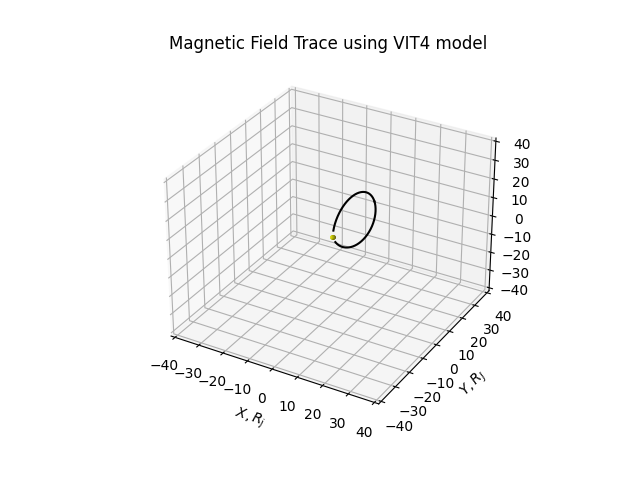
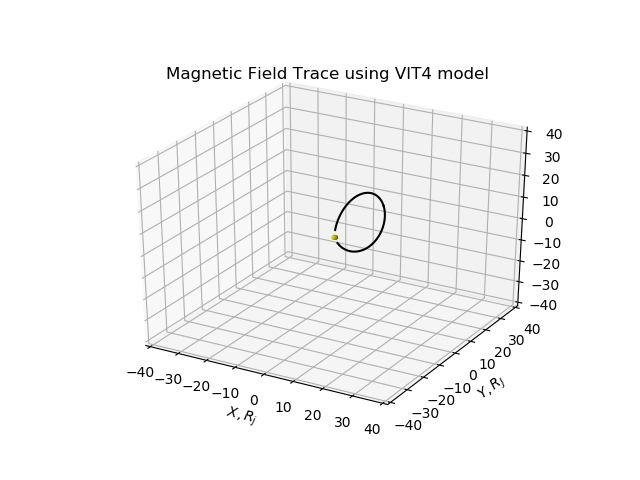
fixed current sheet!

Changed region(s): [[0.2188, 0.0625, 0.875, 0.9062]]

diff --git a/field_and_current_sheet.py b/field_and_current_sheet.py
@@ -19,67 +19,89 @@ import scipy.special
 mpl.rcParams['legend.fontsize'] = 10
 
 Rj = 7.14e7
-class DifferentFieldsTrace:
+class InternalAndCS:
     ''' 
-
-    TO DO - CHECK IF IT WORKS, PLOT THE TRACE, EXTEND TO MORE COMPLICATED MODELS? COULD DO THE 463 MODEL WHICH WILL INCLUDE A BPHI COMPONENT DUE TO SPINNING PLANET 
-
+    Class to plot the combined magnetic field; both internally generated the 
+    field thanks to the current sheet
+    
     '''
 
-    def __init__(self, starting_cordinates, coord_type = "sph", equatorial_strength = 4.17e-7, model = 'VIP4'):
-        self.help = HelpfulFunctions()
+    def __init__(self, starting_cordinates = [30*Rj, np.pi/2, np.pi/2], coord_type = "sph", equatorial_strength = 4.17e-7, model = 'VIP4'):
+        ''' 
+        Plots the magnetic field of jupiter, both internally generated (as defined by input model) and due to the current sheet
+
+        Inputs:
+        starting_cordinates: the initial position from which the magnetic field should be calculated, with Jupiter being the origin
+        coord_type = Whether the starting co-ordinates are spherical (system III) or cartesian
+        equatorial_strength = the equatorial field strength on the surface of Jupiter in T
+        model = the model for the internally generated field. Must be included within Chris's model
+
+
+
+        '''
+        self.help = HelpfulFunctions() #a list of helpful functions that come up repeatedly
+
         models = ['JRM09', 'VIP4', 'VIT4', 'Ulysses 17ev', 'V1-17ev','O6','O4', 'SHA', 'dipole']
+        
         if model not in models:
             print('model not recognised')
             sys.exit()
+        
         else:
             self.model = model
         self.field = field_models()
 
         if not (coord_type == 'sph' or coord_type == 'cart'):
             print('please input co-ordinates in spherical polar or cartesian ("sph" / "cart") \n I will extend to further co-ordinate types later')
-        if coord_type == 'cart':
+        
+        if coord_type == 'cart': #if the coordinates are entired in cartersian they are changed to be in spherical polar
             x,y,z = starting_cordinates[0], starting_cordinates[1], starting_cordinates[2]
             r,theta,phi = self.help.cart_to_sph(x, y, z)
             self.starting_cordinates = [r,theta,phi]
+        
         if coord_type == "sph":
             self.starting_cordinates = starting_cordinates
 
     def trace_lower_hemisphere(self, printing = 'off', starting_cordinates = None):
+        ''' 
+        Trace the lower hemisphere of the magnetic field, starting from the initially defined co ordinated.
+        If print = on, more sanity checks will be printed! 
+        '''
         print('\n Lower Hemisphere')
         if starting_cordinates == None:
             starting_cordinates = self.starting_cordinates
         coordinates = starting_cordinates
         points = []
         i = 0
+        
         while True:
-            i += 1
+            ''' 
+            loops for as long as r is larger than a defined value
+            '''
+            i += 1 #this i is just used to define when to print things! 
             px, py, pz = self.help.sph_to_cart(coordinates[0],coordinates[1],coordinates[2])
             points.append([px,py,pz])
             r = coordinates[0]
-            if r <= 3 * Rj:
+            
+            if r <= 3 * Rj: #defines when the loop is broken out of 
                 break
 
 
-            B_r, B_theta, B_phi = self.field.Internal_Field(r, coordinates[1], coordinates[2], model=self.model)
-            B_current = self.field.CAN_sheet(r, coordinates[1], coordinates[2])
-            B_notcurrent = np.array([B_r, B_theta, B_phi])
-            B_overall = np.add(B_current, B_notcurrent)
-            B_x, B_y, B_z = self.help.Bsph_to_Bcart(B_overall[0], B_overall[1], B_overall[2], coordinates[0], coordinates[1],coordinates[2])    
-            B_x, B_y, B_z = self.help.Bsph_to_Bcart(B_r, B_theta, B_phi, coordinates[0], coordinates[1],coordinates[2])# quad =1)
-            '''
-            if not coordinates[2]  == 0:
-                print('PHI NOT EQUAL 0')
-                sys.exit()
-            '''
+            B_r, B_theta, B_phi = self.field.Internal_Field(r/Rj, coordinates[1], coordinates[2], model=self.model) #calculates the magnetic field due to the internal field in spherical polar that point
+            if i % 1000 == 0:
+                print(coordinates)
+            B_current = self.field.CAN_sheet(r/Rj, coordinates[1], coordinates[2]) #calculates the magnetic field due to the current sheet in spherical polar
+            B_notcurrent = np.array([B_r, B_theta, B_phi]) 
+            B_overall = np.add(B_current, B_notcurrent) #adds up the total magnetic field 
+            B_x, B_y, B_z = self.help.Bsph_to_Bcart(B_overall[0], B_overall[1], B_overall[2], coordinates[0], coordinates[1],coordinates[2]) #converts magnetic field to cartesian
             B = np.array([B_x, B_y, B_z])
-            coordinates = [px,py,pz]
-            Bunit = self.help.unit_vector_cart(B)
-            dr = r * 0.001 #(*Rj) #THIS IS HOW WE UPPDATE THE COORDINATES - IF IT TAKES TOO LONG, THIS NEEDS CHANGING IF IT TAKES TOO LONG OR IS GETTING WEIRD CLOSE TO PLANET
-            change = dr * Bunit
-            coordinates = np.add(coordinates, change)
-            pr, ptheta, pphi = self.help.cart_to_sph(coordinates[0], coordinates[1], coordinates[2])
-            coordinates = [pr,ptheta,pphi]
+            coordinates = [px,py,pz] #change the definition of the coordinates from spherical to cartesian 
+            Bunit = self.help.unit_vector_cart(B) #calculates the unit vector in cartesian direction
+            dr = r * 0.001  #THIS IS HOW WE UPPDATE THE COORDINATES - IF IT TAKES TOO LONG, THIS NEEDS CHANGING IF IT TAKES TOO LONG OR IS GETTING WEIRD CLOSE TO PLANET
+            change = dr * Bunit #the change from this coordinate to the next one is calculated
+            coordinates = np.add(coordinates, change) #add the change to the current co ordinate
+            pr, ptheta, pphi = self.help.cart_to_sph(coordinates[0], coordinates[1], coordinates[2]) #change the coordinatres back in spherical
+            coordinates = [pr,ptheta,pphi] 
 
             
             if printing == 'on':
@@ -88,9 +110,12 @@ class DifferentFieldsTrace:
                     print('r = {}, theta = {}, phi = {}'.format(coordinates[0],coordinates[1],coordinates[2]))
                     print(' x= {}, y = {}, z =  {}'.format(px,py,pz))
                     print('bunit = {}, change = {}, dr = {} \n \n'.format(Bunit, change, dr))
-            
-            if i % 1000 == 0:
+ 
+            if i % 1000 == 0 or i==1:
                print("theta = {}".format(coordinates[1]))
+               print(B_current, B_notcurrent,r/Rj,'\n')
+               
+               
 
         return points
         
@@ -113,13 +138,10 @@ class DifferentFieldsTrace:
                 break
 
 
-            B_r, B_theta, B_phi = self.field.Internal_Field(r, coordinates[1], coordinates[2], model=self.model)
-            B_current = self.field.CAN_sheet(r, coordinates[1], coordinates[2])
-            B_current_rh_R, B_current_rh_theta, B_current_rh_phi = self.help.B_S3LH_to_S3RH(B_current[0], B_current[1], B_current[2], hemipshere = 'upper')
-            B_current_RH = [B_current_rh_R, B_current_rh_theta, B_current_rh_phi]
-            
+            B_r, B_theta, B_phi = self.field.Internal_Field(r/Rj, coordinates[1], coordinates[2], model=self.model)
+            B_current = self.field.CAN_sheet(r/Rj, coordinates[1], coordinates[2])
             B_notcurrent = np.array([B_r, B_theta, B_phi])
-            B_overall = np.add(B_current_RH, B_notcurrent)
+            B_overall = np.add(B_current, B_notcurrent)
             B_x, B_y, B_z = self.help.Bsph_to_Bcart(B_overall[0], B_overall[1], B_overall[2], coordinates[0], coordinates[1],coordinates[2])
             B = np.array([B_x, B_y, B_z])
             coordinates = [px,py,pz]
@@ -136,7 +158,8 @@ class DifferentFieldsTrace:
                     print(' x= {}, y = {}, z =  {}'.format(px,py,pz))
                     print('bunit = {}, change = {}, dr = {} \n \n'.format(Bunit, change, dr))
             if i % 1000 == 0:
-               print("theta = {}, r = {}Rj".format(coordinates[1], coordinates[0]/Rj))
+               print("theta = {}".format(coordinates[1]))
+               print(B_current, B_notcurrent,r/Rj,'\n')
 
         return points
 
@@ -252,6 +275,6 @@ class DifferentFieldsTrace:
  
 
 
-test = DifferentFieldsTrace([30*Rj, np.pi/2, np.pi/2], model = 'VIT4')
+test = InternalAndCS([30*Rj, np.pi/2, np.pi/2], model = 'VIP4')
 test.plotTrace()
 

diff --git a/trace_given_field.py b/trace_given_field.py
@@ -83,8 +83,9 @@ class DifferentFieldsTrace:
                     print(' x= {}, y = {}, z =  {}'.format(px,py,pz))
                     print('bunit = {}, change = {}, dr = {} \n \n'.format(Bunit, change, dr))
             
-            if i % 1000 == 0:
+            if i % 1000 == 0 or i ==1:
                print("theta = {}".format(coordinates[1]))
+               print([B_r, B_theta, B_phi],r/Rj,'\n')
 
         return points
         
@@ -237,5 +238,6 @@ class DifferentFieldsTrace:
  
 
 
-test = DifferentFieldsTrace([30*Rj, np.pi/2, np.pi/2], model = 'VIT4')
-test.plotMultipleLines(r = 20*Rj, num = 8)
+test = DifferentFieldsTrace([30*Rj, np.pi/2, np.pi/2], model = 'VIP4')
+#test.plotMultipleLines(r = 20*Rj, num = 8)
+test.plotTrace()
